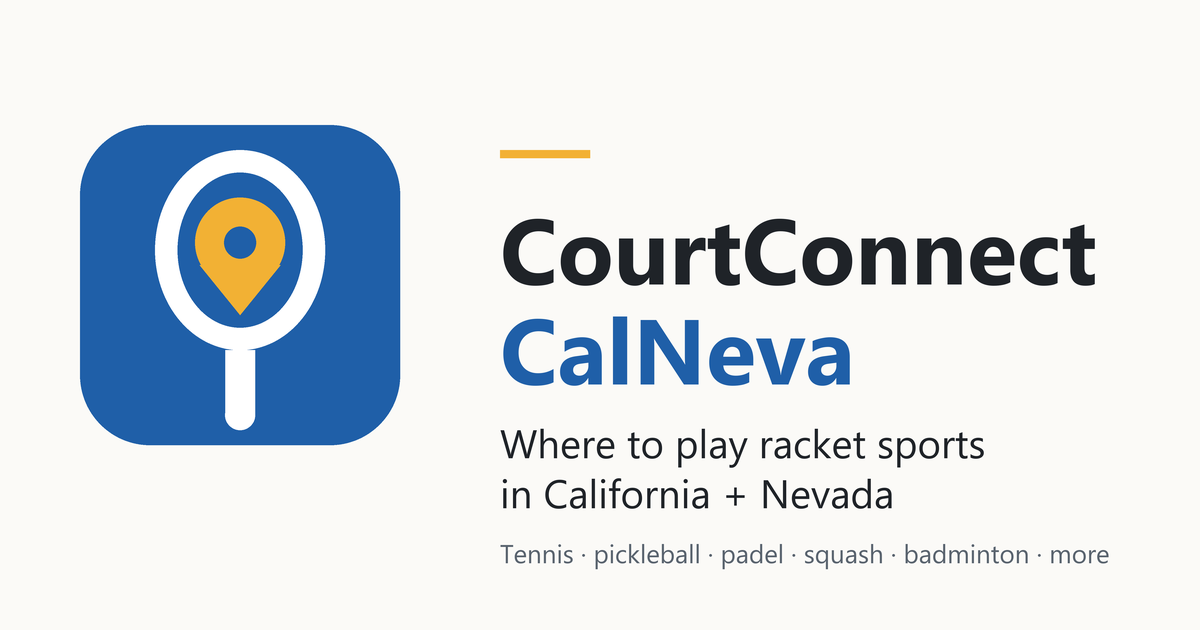
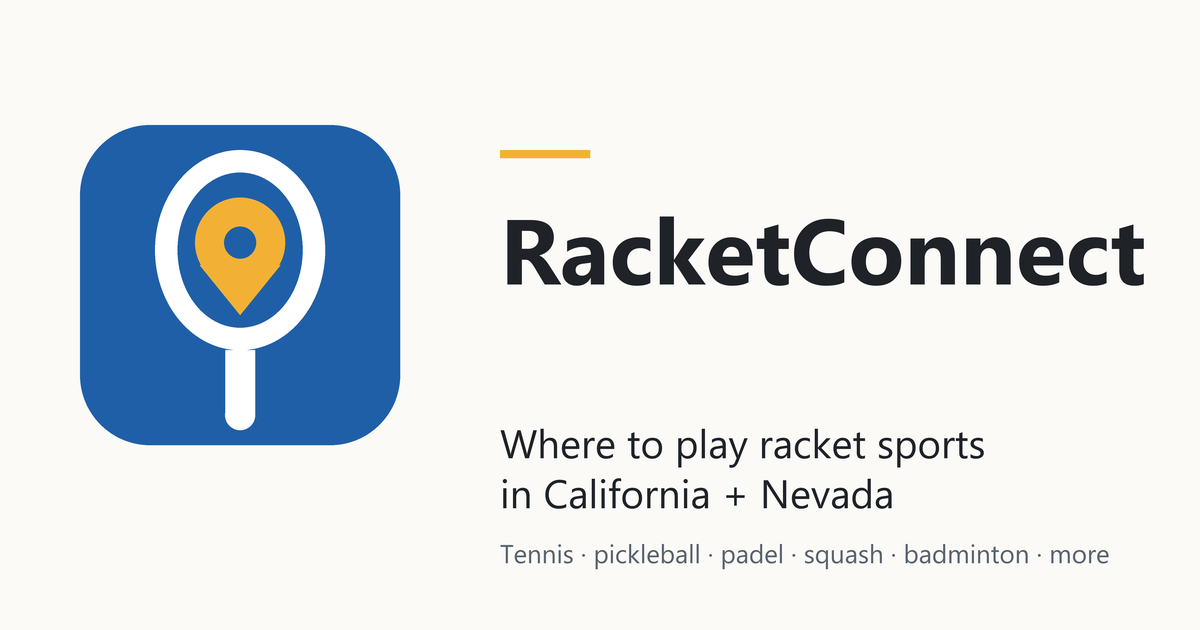
Rename the product to RacketConnect (ADR 0029)
Display name only: app, manifest, llms.txt, share card, dbt docs, README, CLAUDE.md, docs. Repo, DB file, dbt project and env vars keep the courtconnect names.

Changed region(s): [[0.4008, 0.3317, 0.9558, 0.4524], [0.4008, 0.4825, 0.7092, 0.6333]]

diff --git a/app/index.html b/app/index.html
@@ -3,7 +3,7 @@
 <head>
 <meta charset="utf-8">
 <meta name="viewport" content="width=device-width, initial-scale=1">
-<title>CourtConnect CalNeva</title>
+<title>RacketConnect</title>
 <link rel="icon" href="favicon.svg" type="image/svg+xml">
 <link rel="icon" href="favicon.png" type="image/png" sizes="64x64">
 <link rel="apple-touch-icon" href="icon-180.png">
@@ -14,16 +14,16 @@
 <!-- Pages URL appears here and in og:url / og:image: update all three when the repo is renamed (roadmap item 1). -->
 <link rel="canonical" href="https://abov.github.io/courtconnect-ca/">
 <meta property="og:type" content="website">
-<meta property="og:site_name" content="CourtConnect CalNeva">
-<meta property="og:title" content="CourtConnect CalNeva: where to play racket sports in California + Nevada">
+<meta property="og:site_name" content="RacketConnect">
+<meta property="og:title" content="RacketConnect: where to play racket sports in California + Nevada">
 <meta property="og:description" content="Tennis, pickleball, padel, squash, badminton and more on one map, with honest notes on how complete the data is. Links out; no bookings or payments.">
 <meta property="og:url" content="https://abov.github.io/courtconnect-ca/">
 <meta property="og:image" content="https://abov.github.io/courtconnect-ca/share-card.png">
 <meta property="og:image:width" content="1200">
 <meta property="og:image:height" content="630">
-<meta property="og:image:alt" content="CourtConnect CalNeva logo: a racket with a map pin. Where to play racket sports in California and Nevada.">
+<meta property="og:image:alt" content="RacketConnect logo: a racket with a map pin. Where to play racket sports in California and Nevada.">
 <meta name="twitter:card" content="summary_large_image">
-<meta name="twitter:title" content="CourtConnect CalNeva: where to play racket sports in California + Nevada">
+<meta name="twitter:title" content="RacketConnect: where to play racket sports in California + Nevada">
 <meta name="twitter:description" content="Tennis, pickleball, padel, squash, badminton and more on one map, with honest notes on how complete the data is.">
 <meta name="twitter:image" content="https://abov.github.io/courtconnect-ca/share-card.png">
 <link rel="stylesheet" href="https://unpkg.com/maplibre-gl@4.7.1/dist/maplibre-gl.css" integrity="sha384-MinO0mNliZ3vwppuPOUnGa+iq619pfMhLVUXfC4LHwSCvF9H+6P/KO4Q7qBOYV5V" crossorigin="anonymous">
@@ -280,7 +280,7 @@
 
 <aside id="panel" aria-label="Filters and results">
   <header>
-    <h1 translate="no"><img src="favicon.svg" alt="" width="24" height="24" style="vertical-align:-4px;margin-right:8px">CourtConnect CalNeva</h1>
+    <h1 translate="no"><img src="favicon.svg" alt="" width="24" height="24" style="vertical-align:-4px;margin-right:8px">RacketConnect</h1>
     <div class="sub" id="headline">Find where to play racket sports in California and Nevada.</div>
     <p class="sub welcome">Every racket sport, every kind of court, from free parks to private clubs. Labelled by how sure we are. We link out and never take bookings or payments.</p>
     <div class="seg" role="group" aria-label="What are you looking for?">
@@ -384,7 +384,7 @@
     </div>
   </div>
   <ul id="list"></ul>
-  <footer><div id="stats"></div><div><button class="link" id="openAbout" type="button">About CourtConnect</button> &middot; <button class="link" id="openCoverage" type="button">How complete is this data?</button> &middot; <a href="how-its-built.html">How it's built</a></div><div id="attr"></div></footer>
+  <footer><div id="stats"></div><div><button class="link" id="openAbout" type="button">About RacketConnect</button> &middot; <button class="link" id="openCoverage" type="button">How complete is this data?</button> &middot; <a href="how-its-built.html">How it's built</a></div><div id="attr"></div></footer>
 </aside>
 
 <main id="map" aria-label="Map of racket-sport venues in California and Nevada"></main>
@@ -392,7 +392,7 @@
 <div id="toast" role="status" aria-live="polite" hidden></div>
 
 <dialog id="about" aria-labelledby="aboutTitle">
-  <div class="dlg-h"><h2 id="aboutTitle">About CourtConnect</h2><button class="link" id="closeAbout" type="button">Close</button></div>
+  <div class="dlg-h"><h2 id="aboutTitle">About RacketConnect</h2><button class="link" id="closeAbout" type="button">Close</button></div>
   <div class="dlg-b">
     <p>One free map of every racket sport in California and Nevada: tennis, pickleball, padel, squash, badminton, table tennis and the lesser-known ones, on public parks, hitting walls, rec centers and private clubs. Each place says how sure we are (confirmed, official or reported) and when it was last checked. We link out to the venue's own page; we never take bookings or payments, and there are no accounts.</p>
     <h3>For players</h3>
@@ -404,7 +404,7 @@
     <h3>For builders</h3>
     <p>Open data in, a tested dbt warehouse, one static file out. <a href="how-its-built.html">How it's built</a>, with the numbers and the limits.</p>
     <h3>Other languages</h3>
-    <p>CourtConnect is written in English and has no translation of its own. Your browser can translate it: in Chrome or Edge use the address-bar Translate button (on a phone, the &#8942; menu, then Translate); in Safari, the <b>aA</b> menu, then Translate; in Firefox, the Translate button in the address bar. Pick Spanish, Portuguese, French, Italian, German or any other language it offers. Names of places, events and groups are left as written. Machine translation can be wrong, and venue notes come from English sources.</p>
+    <p>RacketConnect is written in English and has no translation of its own. Your browser can translate it: in Chrome or Edge use the address-bar Translate button (on a phone, the &#8942; menu, then Translate); in Safari, the <b>aA</b> menu, then Translate; in Firefox, the Translate button in the address bar. Pick Spanish, Portuguese, French, Italian, German or any other language it offers. Names of places, events and groups are left as written. Machine translation can be wrong, and venue notes come from English sources.</p>
     <p class="meta">A listing or label changes only with public evidence. It cannot be bought, and there is no paid or featured placement.</p>
   </div>
 </dialog>
@@ -418,7 +418,7 @@
     <div id="playersGroups"></div>
     <h3>Apps that match players</h3>
     <div id="playersApps" class="apps"></div>
-    <p class="meta" style="margin-top:12px">Groups come from the organizer's own public page, with the date we last checked. CourtConnect stores no members, takes no sign-ups and has not checked how many players each app has in California or Nevada. <a id="playersTell" href="#" target="_blank" rel="noopener noreferrer">Know a group we are missing?</a> (no sign-in)</p>
+    <p class="meta" style="margin-top:12px">Groups come from the organizer's own public page, with the date we last checked. RacketConnect stores no members, takes no sign-ups and has not checked how many players each app has in California or Nevada. <a id="playersTell" href="#" target="_blank" rel="noopener noreferrer">Know a group we are missing?</a> (no sign-in)</p>
   </div>
 </dialog>
 
@@ -449,6 +449,8 @@
 "use strict";
 // ---------- anonymous usage counts (ADR 0013) ----------
 // GoatCounter: no cookies, no personal data, honours Do Not Track. OFF until the owner sets the site code (the part before .goatcounter.com).
+// Display name and scope for text built in script. The static <title>, <meta> and About text below repeat them: change both (docs/decisions/0029).
+const BRAND = "RacketConnect", REGION = "California and Nevada";
 const GOATCOUNTER_CODE = "courts";
 const ANALYTICS_ON = !!GOATCOUNTER_CODE && navigator.doNotTrack !== "1" && !/^(localhost|127\.0\.0\.1)$/.test(location.hostname);
 if (ANALYTICS_ON) {
@@ -816,7 +818,7 @@ function shareNode(v) {
     const url = shareUrl(v), title = (v.n || "Courts") + (v.c ? ", " + v.c : "");
     track("share");
     try {
-      if (navigator.share && matchMedia("(pointer: coarse)").matches) { await navigator.share({title: title + " on CourtConnect", url}); return; }
+      if (navigator.share && matchMedia("(pointer: coarse)").matches) { await navigator.share({title: title + " on " + BRAND, url}); return; }
       await navigator.clipboard.writeText(url);
       msg.textContent = "Link copied"; setTimeout(() => { msg.textContent = ""; }, 2500);
     } catch (e) { if (e.name !== "AbortError") window.prompt("Copy this link", url); }
@@ -1090,7 +1092,7 @@ function venueNode(v) {
   if (v.s === "o" || v.s === "b") {
     src.append(el("p", {class: "meta"}, el("a", {href: "https://www.openstreetmap.org/edit#map=19/" + v.y + "/" + v.x, target: "_blank", rel: "noopener noreferrer", text: "Fix or improve this on OpenStreetMap"}), document.createTextNode(" (needs a free OSM account; add only what you have seen or the venue's own page says)")));
   }
-  src.append(el("p", {class: "meta", text: "A reviewer checks every suggested change. CourtConnect takes no registrations or payments; the provider does."}));
+  src.append(el("p", {class: "meta", text: "A reviewer checks every suggested change. RacketConnect takes no registrations or payments; the provider does."}));
   box.append(src);
   return box;
 }
@@ -1203,7 +1205,7 @@ async function runSearch(zoom, open) {
     try {
       const z = await zipPoint(zq);
       if (my !== searchRun) return;
-      if (!z) { textOff = true; note = "ZIP " + zq + " is outside California and Nevada."; trackD("search-miss", "zip-outside"); }
+      if (!z) { textOff = true; note = "ZIP " + zq + " is outside " + REGION + "."; trackD("search-miss", "zip-outside"); }
       else {
         const c = {lat: z.at[0], lng: z.at[1]}; searchCentre = c; maxZoom = play ? 13 : 11;
         let pool = pins(), lead = "";
@@ -1520,7 +1522,7 @@ function showSportInfo() {
 }
 // "Find people to play with" (social phase A, ADR 0015): recurring groups and open plays (the social series) plus link-outs to player-matching apps, for one sport.
 // It is a dialog with three doors: the "Find players" button in the header, the callout under the sport picker, and a link in every venue popup.
-// CourtConnect stores no members and has not checked how many players each app has in California or Nevada, so the dialog says so.
+// RacketConnect stores no members and has not checked how many players each app has in California or Nevada, so the dialog says so.
 const playerGroups = idx => {
   const name = idx >= 0 && sports[idx] ? sports[idx].n : null;
   return socials.filter(s => isCurrentSocial(s) && (!name || s.sp === name)).sort((a, b) => nearCmp(a, b) || a.c.localeCompare(b.c) || a.n.localeCompare(b.n));

diff --git a/app/how-its-built.html b/app/how-its-built.html
@@ -3,17 +3,17 @@
 <head>
 <meta charset="utf-8">
 <meta name="viewport" content="width=device-width, initial-scale=1">
-<title>How CourtConnect is built</title>
+<title>How RacketConnect is built</title>
 <link rel="icon" href="favicon.svg" type="image/svg+xml">
 <link rel="icon" href="favicon.png" type="image/png" sizes="64x64">
 <link rel="apple-touch-icon" href="icon-180.png">
 <meta name="theme-color" content="#fbfaf7" media="(prefers-color-scheme: light)">
 <meta name="theme-color" content="#10151c" media="(prefers-color-scheme: dark)">
-<meta name="description" content="How CourtConnect CalNeva is built: open data in, a tested dbt warehouse on DuckDB, one static JSON file out, and gates that decide what ships. Measured numbers, decisions and limits.">
+<meta name="description" content="How RacketConnect is built: open data in, a tested dbt warehouse on DuckDB, one static JSON file out, and gates that decide what ships. Measured numbers, decisions and limits.">
 <link rel="canonical" href="https://abov.github.io/courtconnect-ca/how-its-built.html">
 <meta property="og:type" content="article">
-<meta property="og:site_name" content="CourtConnect CalNeva">
-<meta property="og:title" content="How CourtConnect is built">
+<meta property="og:site_name" content="RacketConnect">
+<meta property="og:title" content="How RacketConnect is built">
 <meta property="og:description" content="Open data in, a tested dbt warehouse on DuckDB, one static file out. Measured numbers, decisions and limits.">
 <meta property="og:url" content="https://abov.github.io/courtconnect-ca/how-its-built.html">
 <meta property="og:image" content="https://abov.github.io/courtconnect-ca/share-card.png">
@@ -79,7 +79,7 @@
 <header>
   <div class="wrap">
     <a class="back" href="./">&larr; Back to the map</a>
-    <h1>How CourtConnect is built</h1>
+    <h1>How RacketConnect is built</h1>
     <p class="lede">Open data in, a tested warehouse in the middle, one static file out, and gates that decide what ships. Everything here is measured or marked as not yet measured.</p>
   </div>
 </header>

diff --git a/app/run-history.html b/app/run-history.html
@@ -3,7 +3,7 @@
 <head>
 <meta charset="utf-8">
 <meta name="viewport" content="width=device-width, initial-scale=1">
-<title>CourtConnect run history</title>
+<title>RacketConnect run history</title>
 <link rel="icon" href="favicon.svg" type="image/svg+xml">
 <link rel="icon" href="favicon.png" type="image/png" sizes="64x64">
 <link rel="apple-touch-icon" href="icon-180.png">
@@ -12,8 +12,8 @@
 <meta name="description" content="The data-quality scorecard after each refresh, and what the refresh agent has done so far: dated numbers read from the project's own logs.">
 <link rel="canonical" href="https://abov.github.io/courtconnect-ca/run-history.html">
 <meta property="og:type" content="article">
-<meta property="og:site_name" content="CourtConnect CalNeva">
-<meta property="og:title" content="CourtConnect run history">
+<meta property="og:site_name" content="RacketConnect">
+<meta property="og:title" content="RacketConnect run history">
 <meta property="og:description" content="Scorecard history and refresh-agent runs, from the repository's own logs.">
 <meta property="og:url" content="https://abov.github.io/courtconnect-ca/run-history.html">
 <meta property="og:image" content="https://abov.github.io/courtconnect-ca/share-card.png">

diff --git a/app/ask-the-data.html b/app/ask-the-data.html
@@ -3,7 +3,7 @@
 <head>
 <meta charset="utf-8">
 <meta name="viewport" content="width=device-width, initial-scale=1">
-<title>CourtConnect: ask the data</title>
+<title>RacketConnect: ask the data</title>
 <link rel="icon" href="favicon.svg" type="image/svg+xml">
 <link rel="icon" href="favicon.png" type="image/png" sizes="64x64">
 <link rel="apple-touch-icon" href="icon-180.png">
@@ -12,8 +12,8 @@
 <meta name="description" content="Run SQL on the map's public venue data in your own browser (DuckDB-WebAssembly). Nothing you type leaves the page.">
 <link rel="canonical" href="https://abov.github.io/courtconnect-ca/ask-the-data.html">
 <meta property="og:type" content="article">
-<meta property="og:site_name" content="CourtConnect CalNeva">
-<meta property="og:title" content="CourtConnect: ask the data">
+<meta property="og:site_name" content="RacketConnect">
+<meta property="og:title" content="RacketConnect: ask the data">
 <meta property="og:description" content="Query the public venue export with SQL in your browser.">
 <meta property="og:url" content="https://abov.github.io/courtconnect-ca/ask-the-data.html">
 <meta property="og:image" content="https://abov.github.io/courtconnect-ca/share-card.png">

diff --git a/ingestion/oneoff/make_share_card.py b/ingestion/oneoff/make_share_card.py
@@ -33,8 +33,7 @@ d.ellipse([*p(32 - 3.2, 23.5 - 3.2), *p(32 + 3.2, 23.5 + 3.2)], fill=BLUE)
 
 x = 500 * S
 d.rectangle([x, 150 * S, x + 90 * S, 158 * S], fill=GOLD)
-d.text((x, 185 * S), "CourtConnect", font=font("segoeuib.ttf", 92), fill=TEXT)
-d.text((x, 285 * S), "CalNeva", font=font("segoeuib.ttf", 92), fill=BLUE)
+d.text((x, 185 * S), "RacketConnect", font=font("segoeuib.ttf", 92), fill=TEXT)
 d.text((x, 415 * S), "Where to play racket sports", font=font("segoeui.ttf", 40), fill=TEXT)
 d.text((x, 465 * S), "in California + Nevada", font=font("segoeui.ttf", 40), fill=TEXT)
 d.text((x, 535 * S), "Tennis · pickleball · padel · squash · badminton · more", font=font("segoeui.ttf", 26), fill=MUTED)

diff --git a/ingestion/export_app_data.py b/ingestion/export_app_data.py
@@ -129,7 +129,7 @@ def main() -> None:
                has_lit_courts, is_confirmed_public, has_free_courts, is_members_only, also_listed_as, near_street
         from marts.mart_venue_finder""").fetchall()
 
-    # Things to do at a venue: link-outs to the provider's own page (CourtConnect books nothing). Current ones only.
+    # Things to do at a venue: link-outs to the provider's own page (RacketConnect books nothing). Current ones only.
     actions: dict[str, list] = defaultdict(list)
     for vid, atype, title, provider, url, price, start, end in con.execute("""
             select venue_id, action_type, title, provider, url, price_info, start_date, end_date

diff --git a/CLAUDE.md b/CLAUDE.md
@@ -1,6 +1,6 @@
-# CourtConnect CalNeva
+# RacketConnect
 
-Racket-sport venue finder for California + Nevada ("CalNeva", ADR 0014): Python ingestion -> dbt (DuckDB, the only warehouse) -> static MapLibre map in `app/`.
+Racket-sport venue finder for California + Nevada ("CalNeva", ADR 0014): Python ingestion -> dbt (DuckDB, the only warehouse) -> static MapLibre map in `app/`. Product name RacketConnect (ADR 0029); the repo, DB file, dbt project and env vars keep the `courtconnect` names.
 README.md has the full story; read it only if you need background. Mission (ADR 0015): one map for every racket sport in CA + NV: find a court, watch a match, try a new sport, and find people to play with. Long-term goal: run itself with as little human review as possible, AI agents doing the work behind automated gates (see "After beta").
 Decisions are in `docs/decisions/` (ADRs 0001-0027, all accepted except 0001, superseded by 0018, and 0023-0026, proposed; one file each, read only the one you need).
 
@@ -24,7 +24,7 @@ Decisions are in `docs/decisions/` (ADRs 0001-0027, all accepted except 0001, su
   - `manual_venues.csv` (venues no dataset knows), `venue_actions.csv` (link-outs; keep `verified_on` + `evidence`),
   - `watch_events.csv` (https links only), `place_sport_overrides.csv` (confirm/reject uncertain matches), `sport_aliases.csv`, `closed_places.csv` (Overture places that no longer exist but are still listed open; `place_id` + `evidence` + `verified_on`), `venue_court_counts.csv` (a person's court count for one sport at a venue where OSM's is wrong; `venue_id` + pin `lat`/`lon` + `evidence` + `verified_on`).
 - DuckDB only (ADR 0018): new SQL needs no Snowflake-safe form; keep the existing `adapter.dispatch` macros, don't add engine-specific SQL without need.
-- Honesty over polish: label inferred data as inferred, never present guesses as confirmed. CourtConnect links out; it takes no bookings or payments.
+- Honesty over polish: label inferred data as inferred, never present guesses as confirmed. RacketConnect links out; it takes no bookings or payments.
 - NEVER use the owner's logins (Playtomic, PlayByPoint, Padel Up, etc.) or read logged-in pages; use public pages and what the owner reports (ADR 0007).
 - Don't use Google Places data (terms forbid storing it); Overture + OSM only (ADR 0005). The Google place-ID layer (`stg_google_place_ids.sql`, `ingestion/google_place_ids.py`) stays dormant (owner 2026-10-22, "for now"): don't delete it, don't run it.
 - No partnership or data-license emails (Pickleheads, USA Pickleball/Places2Play, other court apps) until the owner is ready to socialize or monetize (2026-10-16); their data is off limits. Sources are public pages and community reports.
@@ -86,7 +86,7 @@ Hand-off is the PR description and `git log`; `docs/sessions/` holds only the ro
 - Cost tier "Free / $ / $$ / $$$" (was 7f; beta question 11): ADR first, labelled inferred unless confirmed on a public page, members-only gets no tier.
 - ML + agents strategy (added 2026-10-21, umbrella plan `docs/ml_strategy.md`: tracks, agent roster, scoreboard, phased roadmap; Phase 0 needs only the owner's OK, no spend).
 - ML phases 2-3 (was 5d, `docs/ml_plan.md`): LLM page reader (ADR 0017; `ingestion/page_reader.py` built, free `--engine rules` measured 2026-10-19, Claude-engine run waits on the owner's API key + spend cap + precision bar) and NAIP aerial pilot (Hawthorne and one LV zip run: LV recall 46%; rescans 2026-10-27 in Downey and Sacramento found 0 new venues, fine-tuning did not help, so DROPPED: not worth scaling, `docs/ml_plan.md`; new courts go to OSM).
-- Search interest (Google Trends, BUILT 2026-10-25, `docs/search_interest_plan.md`): refreshed quarterly by the cloud routine "CourtConnect search interest refresh (quarterly)" (`docs/cloud_routines.md`; opens a PR). Planning signal only; NOT shown in the app. After beta: per-capita comparison, an app-facing "trending" label (only if labelled inferred), cross-sport scale.
+- Search interest (Google Trends, BUILT 2026-10-25, `docs/search_interest_plan.md`): refreshed quarterly by the cloud routine "RacketConnect search interest refresh (quarterly)" (`docs/cloud_routines.md`; opens a PR). Planning signal only; NOT shown in the app. After beta: per-capita comparison, an app-facing "trending" label (only if labelled inferred), cross-sport scale.
 - Monetization (brainstorm 2026-10-29, ideas only, `docs/monetization_ideas.md`): affiliate link-outs in the "Get started" guide + tip jar first, claimed/sponsored listings next, insight reports / API later. Sponsored never changes confirmation labels; no bookings or payments; needs the owner to lift the no-partnership-outreach rule and an ADR before any build; add a willingness-to-pay beta question.
 - Reporting dashboard (added 2026-10-25): no BI tool today; reports are markdown/CSV from `make report` / `quality` / `usage` / `interest`. Revisit later, cheapest first: DuckDB UI (`duckdb -ui`), then a one-page Evidence.dev prototype of the quality/coverage scorecard (static, fits Pages, outside CI at first); Metabase/Superset only if more people need self-serve access.
 - ITF 2027 calendars (was 7e, ~Dec): facts only (name, dates, venue, link), no scraping; read ITF pages singly in the browser pane.

diff --git a/docs/ml_plan.md b/docs/ml_plan.md
@@ -41,7 +41,7 @@ On 2026-10-15 about 90% of venues had no street address (CA 9,010 of 9,991; NV 4
 - Tier 2 (nearest Overture address within 150 m; the extract keeps address points within ~440 m of any pin, 5.4 M rows, ~35 s): 2,939 pins filled (median 55 m, 90th percentile 106 m), shown as "Nearest address (inferred)". Tier 1 for the court's own tags was already in `dim_venue` (102 pins, `address_source` osm); the Overture place address is `overture_place` (907). Tier 1 for the *parent* park/school is not possible yet: `osm_parents` has no `addr:*` columns (needs an Overpass re-extract).
 - Home check: 5,755 pins are home-like (1,224 with an access=private court, 20 customers/members, 4,511 unnamed with no access tag), because OSM `landuse`, building around the court and Overture residential categories are not in the data (only `building` on the court itself, none are houses). The rule is therefore the fail-safe one: an unnamed venue with no court tagged public = city only. 5,349 of them had a nearby address that was withheld; 548 other pins are blank (no address point within 150 m). 16 home-like pins already show a street today (tagged on the OSM court): kept (owner, 2026-10-16: OSM publishes it), proposal closed.
 - Still blank after step 1: 6,287 pins (5,739 home-like by design, 548 not). City filled for 8,010 pins that had none.
-- Directions links use the exact pin coordinates, so the home-like pins (unnamed courts, 1,224 of them tagged private) are still exactly locatable. Decided (owner, 2026-10-16): no rounding or hiding. The coordinates come from OSM, which publishes them, same rule as OSM-tagged streets; CourtConnect only never infers a street for these pins. Proposal closed.
+- Directions links use the exact pin coordinates, so the home-like pins (unnamed courts, 1,224 of them tagged private) are still exactly locatable. Decided (owner, 2026-10-16): no rounding or hiding. The coordinates come from OSM, which publishes them, same rule as OSM-tagged streets; RacketConnect only never infers a street for these pins. Proposal closed.
 - Tier 3 (Nominatim) mostly adds nothing for the home-like pins (they must stay city only), and for the 548 others it covers the gap in rural spots; worth running only for those 548.
 - **Tier 3 sample (2026-10-16; `ingestion/reverse_geocode_blanks.py`, cache `transform/seeds/nominatim_addresses.csv`, `make reverse-geocode`).** Recount after step 1: 559 non-home pins have no address (CA 283, NV 276; 449 named by an enclosing park or school, 79 manual, 20 court-named); 5,739 home-like pins stay city only; 16 home-like pins with a street are OSM-tagged (6) or the Overture place's own address (10): kept, per the owner rule above (OSM publishes it). A random 25-pin Nominatim sample (1 request a second, project User-Agent, pin coordinates only) gave 2 house-number addresses (8%; Sunset Park 7 m, Lt. Erik Lloyd Memorial Park 0 m), 22 street-only hits (nearest road or trail, not an address: not used), 1 over 150 m. Only `status = address` feeds `int_venue_address` (`address_source = nominatim`, labelled "Nearest address (inferred)"). The owner approved the full run the same day: all 559 pins queried (single thread, ~1.1 s apart), **83 addresses (15%)** filled as `nominatim`, 433 street-only (not used), 43 over 150 m; 6,228 pins stay blank (5,739 by design). Rerun `make reverse-geocode` only for new blanks (cached rows are never re-queried unless the pin moved). Policy note: this was a one-time, single-thread job on specific pins, not a grid sweep; do not repeat it in bulk. Cheaper alternative with no API: a street-level 'near <road>' line from OSM roads, or phase 2 (read the park's own page).
 
@@ -70,7 +70,7 @@ Finds courts that are in no dataset and on no web page (unmapped park, school, a
 - Labels at no cost: existing OSM `leisure=pitch` court shapes (tennis, pickleball, basketball as hard negatives).
 - Model: small object detector trained on image tiles; prefer permissively licensed ones (torchvision), since Ultralytics YOLO is AGPL.
 - Pilot area: one city (Hawthorne, which matches the public facility pilot) and then one Las Vegas zip code. Report precision and recall against OSM before scaling up.
-- New detections (not in OSM) -> candidate list -> owner checks on imagery -> **add to OSM** (ADR 0011 edit link) -> they arrive with the normal extract. CourtConnect stores no new data model, and OSM gets better too.
+- New detections (not in OSM) -> candidate list -> owner checks on imagery -> **add to OSM** (ADR 0011 edit link) -> they arrive with the normal extract. RacketConnect stores no new data model, and OSM gets better too.
 - Imagery shows a court shape, not sport or access: a candidate is "court here, sport and access unknown" until a page or a person says more. Lines alone can't tell tennis from pickleball, and private yards/homes are never added (same rule as the Pop Tennis importer).
 
 ### Hawthorne pilot result (2026-10-16)

diff --git a/docs/product_brief.md b/docs/product_brief.md
@@ -1,4 +1,4 @@
-# Product brief: what CourtConnect is, why each piece exists, and how to make the page clear (2026-10-22)
+# Product brief: what RacketConnect is, why each piece exists, and how to make the page clear (2026-10-22)
 
 Status: **PR 1 and PR 2 built 2026-10-22 (mode names, promise headline, stats to footer, wall note collapsed, About card collapsed, "Filters (n)", short confirmation chip); PR 3 (welcome card) skipped by owner, legends merged into one "Map key" button in the list bar and "Share this place" built 2026-10-22; "Coming up next" strip (the brief's "This week" strip) built 2026-10-22.** Source: `app/index.html` read as text, ADR 0015, `docs/ux_polish.md`, `docs/competitor_scan.md`, `app/data/venues.json` meta (generated 2026-10-22). Builds on, does not replace, the visual polish plan.
 
@@ -26,7 +26,7 @@ Numbers are from the live export: **10,257 venues** (4,521 with a known name, 1,
 | Venue map (OSM + Overture + hand-curated) | 10k pins across CA + NV | The core promise: "every place" (ADR 0015). Without it nothing else matters. | Player, curious | Yes, the map |
 | Confirmation levels + "inferred" labels | Confirmed / listed business / guessed name / unnamed | Honesty rule (ADR 0007): never present a guess as fact. This is the trust differentiator against directory sites. | Everyone, silently | Yes, and too loudly (see §3) |
 | Sport picker (82 sports) + About card | Pickleball is not the whole story | Sport discovery, tennis and lesser-known sports stay findable | Curious | Yes |
-| Link-outs (`venue_actions`) | Website, leagues, clinics, open play, lessons | CourtConnect links out and takes no bookings or payments, so the *action* lives on the venue's page | Player | Yes, in the popup ("Join & follow") |
+| Link-outs (`venue_actions`) | Website, leagues, clinics, open play, lessons | RacketConnect links out and takes no bookings or payments, so the *action* lives on the venue's page | Player | Yes, in the popup ("Join & follow") |
 | Watch & Social view | Dated events (80) plus recurring groups (21) | Answers "what is on" and "who can I play with" without building accounts (social phase A, closed 2026-10-21) | Spectator, gatherer | Yes (mode button) |
 | Player platforms + "Find people to play with" | 10 apps/groups linked per sport | Same, link-out only | Gatherer | Yes (note under the sport picker) |
 | Hitting walls | 927 solo-practice spots | Underserved need, very few sources | Tennis/racquet players | Yes (only when a wall sport is picked) |
@@ -57,7 +57,7 @@ Principle: **answer the visitor's question first; reveal how we know it second.*
 ### Level 1: always visible (the 10-second experience)
 ```
 +--------------------------------------------+
-| (C) CourtConnect CalNeva                   |
+| (C) RacketConnect                   |
 | Find where to play racket sports in        |
 | California & Nevada.                       |
 |                                            |

diff --git a/docs/tournament_run_parts.md b/docs/tournament_run_parts.md
@@ -4,11 +4,11 @@ The single 1st/15th run (tournaments for every sport + data refresh) stopped aft
 
 | Part | Cloud routine (claude.ai/code/routines) | Cron (America/Los_Angeles) | Covers |
 |------|---------|--------|--------|
-| 1 | CourtConnect tournaments part 1 | 09:00 on the 1st and 15th | USTA SoCal/NorCal, USA Pickleball, PPA, ITF pro tour |
-| 2 | CourtConnect tournaments part 2 | 10:30, gated on Part 1 | USA Badminton, R2 Sports, table tennis, Silicon Valley Open / US Squash, skyball, Club Locker squash |
-| 3 | CourtConnect tournaments part 3 | 12:00, gated on Part 2 | USA Padel calendar, beach tennis organizers, padel rechecks and lead rechecks |
-| 4 | CourtConnect tournaments part 4 | 13:30, gated on Part 3 | Instagram sweep, new-venue social handles, player-group links, new-court discovery for every sport |
-| 5 | CourtConnect data refresh: part 5 | 15:00, gated on Part 4 | data refresh (`docs/refresh_agent.md`), stacked on the tournament PR |
+| 1 | RacketConnect tournaments part 1 | 09:00 on the 1st and 15th | USTA SoCal/NorCal, USA Pickleball, PPA, ITF pro tour |
+| 2 | RacketConnect tournaments part 2 | 10:30, gated on Part 1 | USA Badminton, R2 Sports, table tennis, Silicon Valley Open / US Squash, skyball, Club Locker squash |
+| 3 | RacketConnect tournaments part 3 | 12:00, gated on Part 2 | USA Padel calendar, beach tennis organizers, padel rechecks and lead rechecks |
+| 4 | RacketConnect tournaments part 4 | 13:30, gated on Part 3 | Instagram sweep, new-venue social handles, player-group links, new-court discovery for every sport |
+| 5 | RacketConnect data refresh: part 5 | 15:00, gated on Part 4 | data refresh (`docs/refresh_agent.md`), stacked on the tournament PR |
 
 **Schedule (owner 2026-10-27):** a scheduled run cannot start another scheduled run (the local tool refused: "Refusing to run a scheduled task from a scheduled-task run session"), so the parts are NOT chained. Each has its own cron on the 1st and 15th, spaced so they do not overlap, and each part is gated on the one before it.
 - **Gate (first step of parts 2-5, before any work):** `git fetch origin`, then check that the previous part finished for this cycle: `docs/sessions/<today>-tournament-part-<N-1>.md` (or, for Part 5, Part 4's) exists on `origin/claude/tournaments-<cycle date>` (or on origin/main if that PR already merged), or the Pass section in `docs/tournament_sources.md` has a "Part <N-1>" sub-heading with "Last run: <today>". If a part found nothing and wrote no note, its Pass section line still counts. If the previous part is missing, wait up to 20 minutes (check every 5 with a short sleep), then stop with "PART N SKIPPED: Part <N-1> not done for <today>" and open nothing. A skipped part is run by hand later (Run now).

diff --git a/docs/ml_strategy.md b/docs/ml_strategy.md
@@ -4,7 +4,7 @@ Written 2026-10-21. A plan, not a decision: nothing here starts a scheduled task
 `docs/ml_plan.md` (the ML phases and their results), `docs/self_service_plan.md` (which refresh steps a machine can own) and ADR 0017 / 0019 (the page reader, and when an agent may merge). Read those for detail; this page is the order, the architecture and the case for doing it.
 
 ## 1. The case for ML here (the short version)
-CourtConnect is a data-quality problem on messy open data, run by one person. Three facts make ML a good fit, and each one is already measured in this repo:
+RacketConnect is a data-quality problem on messy open data, run by one person. Three facts make ML a good fit, and each one is already measured in this repo:
 
 1. **The bottleneck is reading and judging text, not computing.** The 116-row review queue, the facility scans, the `*-access` leads, the 482 pins that still lack a street, and every court count that is "on a page somewhere" all come down to "read a public page, find the sports, courts and address". That is what a language model does, and it is slow and context-hungry done by hand in a chat session.
 2. **Every human decision is already a label.** About 170 rows in `place_sport_overrides.csv`, 129 hand-judged venue pairs in the match gold set, 34 hand-settled pages for the reader, and every closed GitHub issue are verdicts with evidence. Most projects have to pay for labels; this one produces them as a by-product of working. Each verdict makes the next model better, so review effort now buys automation later.
@@ -25,7 +25,7 @@ CourtConnect is a data-quality problem on messy open data, run by one person. Th
 ## 2. The honest answer to "should we build agents, or is there another way?"
 Yes, build agents, but not one free-roaming agent. There are three ways to automate this project, and the right answer is the middle one, built on top of the first.
 
-| Approach | What it is | Fits CourtConnect? |
+| Approach | What it is | Fits RacketConnect? |
 |---|---|---|
 | **A. Plain automation** | Scripts + `make` + CI + cron. No LLM. | Covers about two thirds of the runbook already (the "M" steps in `docs/self_service_plan.md`). Do this first and keep it as the spine. |
 | **B. Narrow agents under deterministic gates** (recommended) | Several small workers, each with one job, a fixed output format, no tools beyond what it needs, and a merge gate it cannot change. The model reads and proposes; code verifies and decides. | Fits the "E" steps (evidence, quote) and issue handling. This is ADR 0019's design. |

diff --git a/docs/cloud_routines.md b/docs/cloud_routines.md
@@ -4,12 +4,12 @@ The twice-monthly chain and the quarterly search-interest refresh run as cloud r
 
 | Routine | id | Cron (America/Los_Angeles) |
 |---|---|---|
-| CourtConnect tournaments part 1: tennis, pickleball, ITF | `trig_01AqJ2ucA3oqAB5oN9icwLE7` | 09:00 on the 1st and 15th |
-| CourtConnect tournaments part 2: badminton, table tennis, squash | `trig_01KR5SqAcLwkoLWfpEd6jDYL` | 10:30 on the 1st and 15th |
-| CourtConnect tournaments part 3: padel, beach tennis, lead rechecks | `trig_018RipCVXWnJ9y55YnpUFJsU` | 12:00 on the 1st and 15th |
-| CourtConnect tournaments part 4: Instagram sweep, player groups, new courts | `trig_01Bzo6g8B6YffCqx1buxkwwV` | 13:30 on the 1st and 15th |
-| CourtConnect data refresh: part 5 | `trig_019asuxbJ84AxduTtuecxe45` | 15:00 on the 1st and 15th |
-| CourtConnect search interest refresh (quarterly) | `trig_017bYuYYqZ62ysVfTjs68FXN` | 10:00 on the 3rd of Jan/Apr/Jul/Oct |
+| RacketConnect tournaments part 1: tennis, pickleball, ITF | `trig_01AqJ2ucA3oqAB5oN9icwLE7` | 09:00 on the 1st and 15th |
+| RacketConnect tournaments part 2: badminton, table tennis, squash | `trig_01KR5SqAcLwkoLWfpEd6jDYL` | 10:30 on the 1st and 15th |
+| RacketConnect tournaments part 3: padel, beach tennis, lead rechecks | `trig_018RipCVXWnJ9y55YnpUFJsU` | 12:00 on the 1st and 15th |
+| RacketConnect tournaments part 4: Instagram sweep, player groups, new courts | `trig_01Bzo6g8B6YffCqx1buxkwwV` | 13:30 on the 1st and 15th |
+| RacketConnect data refresh: part 5 | `trig_019asuxbJ84AxduTtuecxe45` | 15:00 on the 1st and 15th |
+| RacketConnect search interest refresh (quarterly) | `trig_017bYuYYqZ62ysVfTjs68FXN` | 10:00 on the 3rd of Jan/Apr/Jul/Oct |
 
 Each part is gated on the one before it (`docs/tournament_run_parts.md`). Retired local tasks: `courtconnect-refresh` (merged into Part 5) and `courtconnect-squash-club-locker` (now inside Part 2). A dead-man's switch (`.github/workflows/refresh-watchdog.yml`) fails on the 2nd and 16th if no "Tournaments" PR was opened.
 
